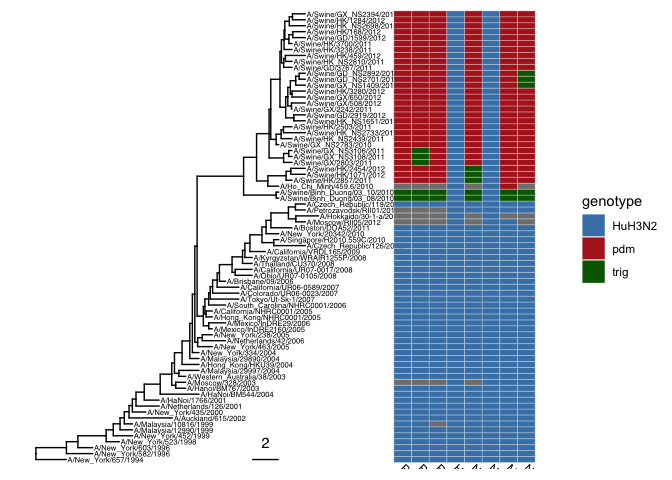
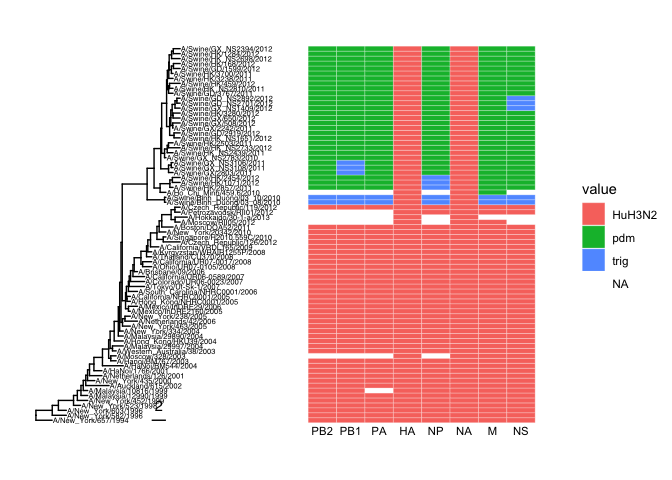
trying gheatmap for trees

diff --git a/Rscripts/phylogenetics/ggtree_demo.md b/Rscripts/phylogenetics/ggtree_demo.md
@@ -6,12 +6,11 @@ Janet Young
 
 # Useful links, general advice
 
-[ggtree manual](http://yulab-smu.top/treedata-book/index.html)
+The [ggtree manual](http://yulab-smu.top/treedata-book/index.html) is
+great (very detailed). - Chapter 1 looks at reading/writing trees. The
+treeio and ape packages both have tree read/write functions).
 
-Chapter 1 looks at reading/writing trees. The treeio and ape packages
-both have tree read/write functions).
-
-## Read a tree and plot it
+# Read a tree and plot it
 
 read in a newick tree file:
 
@@ -53,9 +52,9 @@ nwk_tree %>%
 
 ![](ggtree_demo_files/figure-gfm/unnamed-chunk-3-1.png)<!-- -->
 
-## Associate a tree with addtional data
+# Associate a tree with additional data
 
-Make a fake data tibble with info on each of the taxa in nkw_tree
+Make a fake data tibble with info on each of the taxa in nwk_tree
 
 ``` r
 num_taxa <- length(nwk_tree$tip.label)
@@ -71,33 +70,38 @@ tip_dat
     ## # A tibble: 13 × 4
     ##    taxon fake_height fake_phenotype fake_phenotype2
     ##    <chr>       <dbl> <chr>          <chr>          
-    ##  1 A           130.  tail           fur            
-    ##  2 B            72.7 teeth          scales         
-    ##  3 C           105.  nose           scales         
-    ##  4 D            82.2 tail           scales         
-    ##  5 E           128.  tail           scales         
-    ##  6 F           129.  nose           fur            
-    ##  7 G           119.  teeth          fur            
-    ##  8 H           109.  nose           scales         
-    ##  9 I           121.  tail           scales         
-    ## 10 J           116.  tail           scales         
-    ## 11 K           129.  teeth          spikes         
-    ## 12 L           131.  teeth          spikes         
-    ## 13 M           141.  tail           spikes
+    ##  1 A           101.  nose           fur            
+    ##  2 B            93.4 tail           scales         
+    ##  3 C           124.  nose           spikes         
+    ##  4 D            90.9 tail           scales         
+    ##  5 E            94.4 teeth          spikes         
+    ##  6 F            90.3 tail           scales         
+    ##  7 G            75.2 nose           spikes         
+    ##  8 H            84.0 teeth          spikes         
+    ##  9 I            83.8 teeth          spikes         
+    ## 10 J            71.2 tail           fur            
+    ## 11 K            46.2 nose           spikes         
+    ## 12 L            95.6 nose           spikes         
+    ## 13 M            66.2 nose           spikes
 
 ## combine tree and tbl
 
-Associate information tbl with the tree - this creates a `treedata`
-object that contains the tree (access it using
-`nwk_tree_with_info@phylo`)
+We associate info tbl with the tree using `left_join` - this creates a
+single `treedata` object that contains info AND tree (we access the tree
+like this `nwk_tree_with_info@phylo`)
 
 Advice:  
-- this joining can be flaky. - BEFORE you combine tree with info tbl: -
-manipulate tree to get as close to the final product as you can
-(e.g. reroot, subset, rotate clades) - manipulate tbl get as close to
-the final product as you can (e.g. join a bunch of info togeter) - CHECK
-taxon labels in tree and the tbl column you plan to join on match up
-OK - CHECK the taxon ID in the join column of tbl is UNIQUE - repeated
+- this joining process can be flaky - there’s not as much error-checking
+built-in as I’d like.  
+- BEFORE you combine tree with info tbl:  
+- you should manipulate tree to get as close to the final product as you
+can (e.g. do any rerooting, subsetting, clade rotation, etc, BEFORE you
+left_join)  
+- manipulate tbl get as close to the final product as you can (e.g. join
+a bunch of info together)  
+- CHECK taxon labels in tree and the tbl column you plan to join on
+match up OK  
+- CHECK the taxon ID in the join column of tbl is UNIQUE - repeated
 values will cause trouble
 
 ``` r
@@ -131,17 +135,22 @@ nwk_tree_with_info
     ## # The 'node', 'label' and 'isTip' are from the phylo tree.
     ##     node label isTip fake_height fake_phenotype fake_phenotype2
     ##    <int> <chr> <lgl>       <dbl> <chr>          <chr>          
-    ##  1     1 A     TRUE        130.  tail           fur            
-    ##  2     2 B     TRUE         72.7 teeth          scales         
-    ##  3     3 C     TRUE        105.  nose           scales         
-    ##  4     4 D     TRUE         82.2 tail           scales         
-    ##  5     5 E     TRUE        128.  tail           scales         
-    ##  6     6 F     TRUE        129.  nose           fur            
-    ##  7     7 G     TRUE        119.  teeth          fur            
-    ##  8     8 H     TRUE        109.  nose           scales         
-    ##  9     9 I     TRUE        121.  tail           scales         
-    ## 10    10 J     TRUE        116.  tail           scales         
+    ##  1     1 A     TRUE        101.  nose           fur            
+    ##  2     2 B     TRUE         93.4 tail           scales         
+    ##  3     3 C     TRUE        124.  nose           spikes         
+    ##  4     4 D     TRUE         90.9 tail           scales         
+    ##  5     5 E     TRUE         94.4 teeth          spikes         
+    ##  6     6 F     TRUE         90.3 tail           scales         
+    ##  7     7 G     TRUE         75.2 nose           spikes         
+    ##  8     8 H     TRUE         84.0 teeth          spikes         
+    ##  9     9 I     TRUE         83.8 teeth          spikes         
+    ## 10    10 J     TRUE         71.2 tail           fur            
     ## # ℹ 15 more rows
+
+## plot tree with annotations
+
+now we can use ggtree to use column data in the joined treedata object
+for labels, colors, etc, etc
 
 ``` r
 nwk_tree_with_info %>% 
@@ -150,15 +159,18 @@ nwk_tree_with_info %>%
     geom_tippoint(aes(subset= fake_phenotype=="tail"), color="black") # add dots to taxa, using subset
 ```
 
-![](ggtree_demo_files/figure-gfm/unnamed-chunk-6-1.png)<!-- --> \## try
-gheatmap
+![](ggtree_demo_files/figure-gfm/unnamed-chunk-6-1.png)<!-- -->
 
-### use demo code from ggtree book
+## add heatmap to the right side of a tree
+
+gheatmap is the function for this
+
+### explore gheatmap demo code from ggtree book
 
 gheatmap demo code from the [ggtree online
 book](http://yulab-smu.top/treedata-book/chapter7.html#gheatmap):
 
-read in their example tree, `beast_tree`:
+first read in their example tree, `beast_tree`:
 
 ``` r
 beast_file <- system.file("examples/MCC_FluA_H3.tree", package="ggtree")
@@ -167,7 +179,7 @@ beast_tree <- read.beast(beast_file)
 
 `beast_tree` is a treedata/tidytree object with 76 tips
 
-read in their example genotype data:
+next read in their example genotype data:
 
 ``` r
 genotype_file <- system.file("examples/Genotype.txt", package="ggtree")
@@ -177,7 +189,7 @@ colnames(genotype) <- sub("\\.$", "", colnames(genotype))
 
 `genotype` is a data.frame with 76 rows and 8 columns
 
-?gheatmap help page says that the heatmap data must be a matrix or
+`?gheatmap` help page says that the heatmap data must be a matrix or
 data.frame (not a tibble). I checked - the rownames of `genotype` are
 identical to the tip labels of the tree, although they’re not in the
 same order
@@ -189,8 +201,7 @@ same order
 # TRUE
 ```
 
-Now we can plot (this also shows how to use a custom color scheme for
-the heatmap):
+Now plot:
 
 ``` r
 ## save a ggtree plot object
@@ -199,20 +210,23 @@ p <- ggtree(beast_tree, mrsd="2013-01-01") +
     geom_tiplab(size=2)
 
 ## add the heatmap to the righthand side. 
-gheatmap(p, genotype, offset=5, width=0.5, font.size=3, 
-         colnames_angle=-45, hjust=0) +
-    scale_fill_manual(breaks=c("HuH3N2", "pdm", "trig"), 
-                      values=c("steelblue", "firebrick", "darkgreen"), 
-                      name="genotype")
+gheatmap(p, genotype, offset=15, width=1.5, font.size=3,
+         colnames_offset_y= -1) + 
+    # scale_y_continuous makes sure we can see the colnames
+    scale_y_continuous(expand=c(0.1, 0.1))
 ```
 
-    ## Scale for fill is already present.
-    ## Adding another scale for fill, which will replace the existing scale.
+    ## Scale for y is already present.
+    ## Adding another scale for y, which will replace the existing scale.
 
 ![](ggtree_demo_files/figure-gfm/unnamed-chunk-10-1.png)<!-- -->
 
-Same thing but add x axis scale bar (and heatmap colnames are less ugly
-now)
+Same thing but also:  
+- add x axis scale bar (and heatmap colnames are less ugly now)  
+- use a custom color scheme for the heatmap via `scale_fill_manual`.
+Default behavior for NAs is that there is no rectangle plotted. If we
+use `scale_fill_manual` the default behavior for NAs is now different -
+they are dark gray
 
 ``` r
 p <- ggtree(beast_tree, mrsd="2013-01-01") + 
@@ -221,17 +235,22 @@ p <- ggtree(beast_tree, mrsd="2013-01-01") +
 gheatmap(p, genotype, offset=8, width=0.6, 
          colnames=FALSE, legend_title="genotype") +
     scale_x_ggtree() + 
-    scale_y_continuous(expand=c(0, 0.3))
+    scale_y_continuous(expand=c(0, 0.3)) +
+    scale_fill_manual(breaks=c("HuH3N2", "pdm", "trig"), 
+                      values=c("steelblue", "firebrick", "darkgreen"), 
+                      name="genotype")
 ```
 
     ## Scale for y is already present.
     ## Adding another scale for y, which will replace the existing scale.
     ## Scale for y is already present.
     ## Adding another scale for y, which will replace the existing scale.
+    ## Scale for fill is already present.
+    ## Adding another scale for fill, which will replace the existing scale.
 
 ![](ggtree_demo_files/figure-gfm/unnamed-chunk-11-1.png)<!-- -->
 
-### simpler example with my fake tree and fake data
+### gheatmap example with my fake tree and fake data
 
 ``` r
 ## imagine we're plotting amino acid changes, like Maria's trying to do
